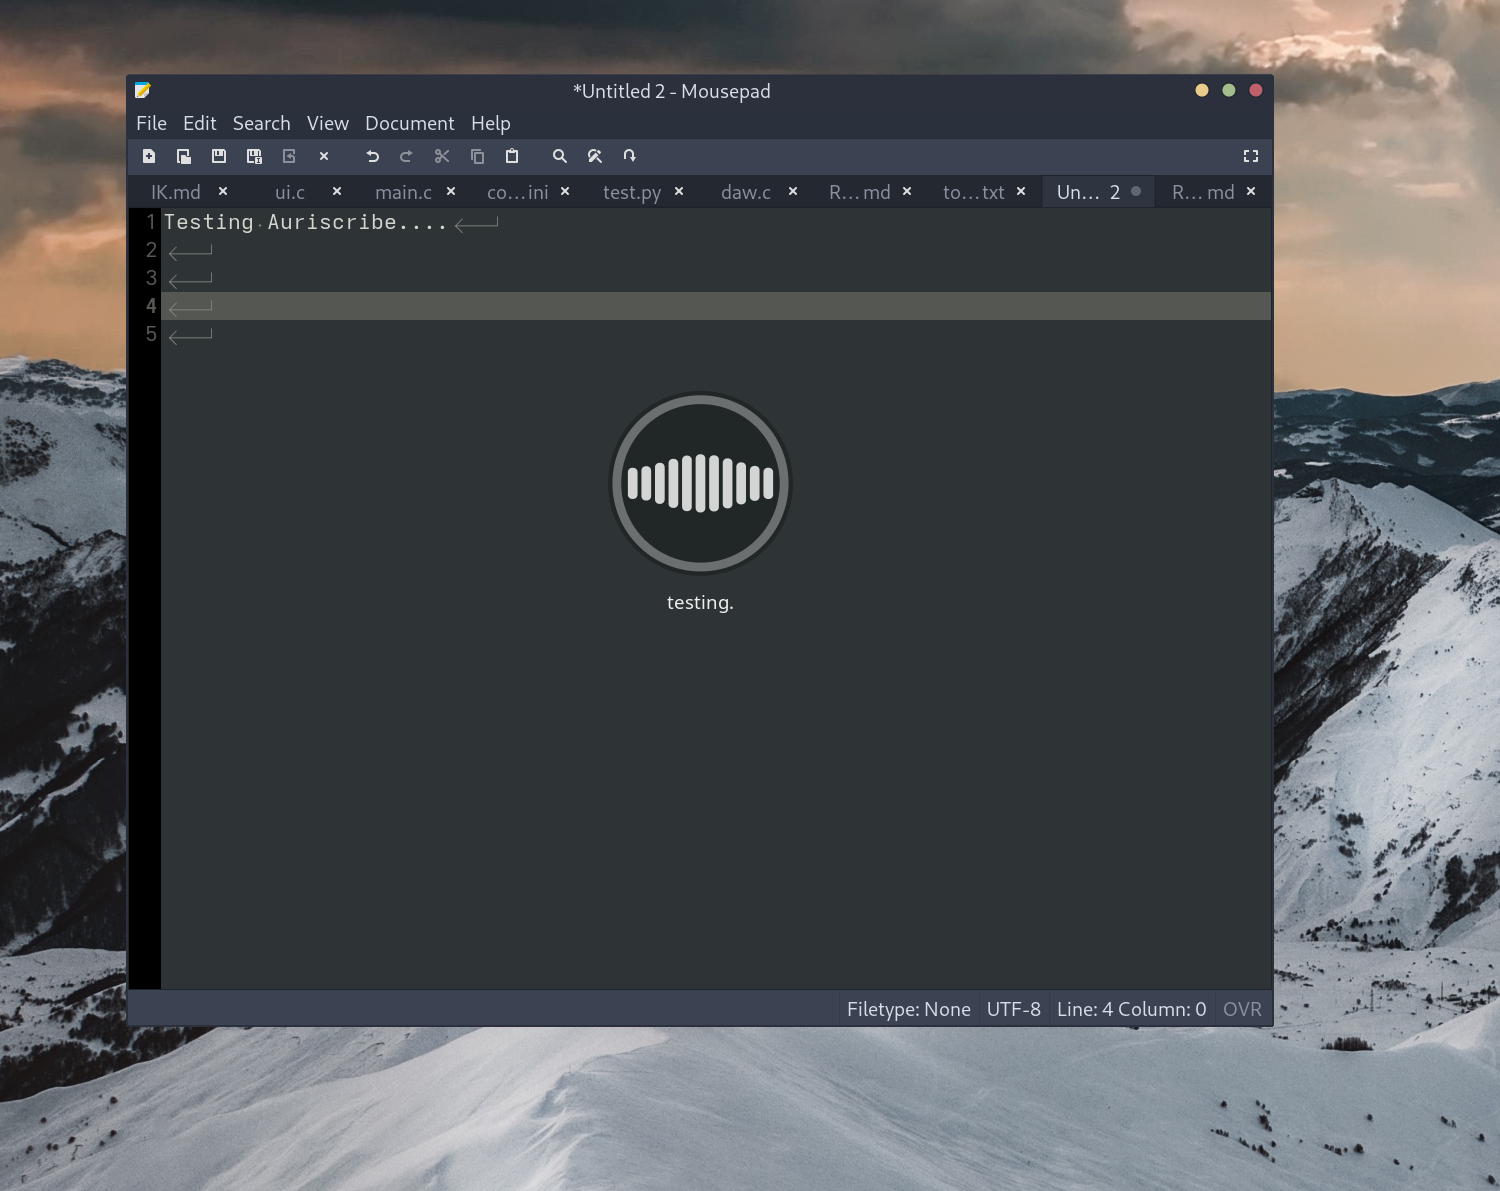
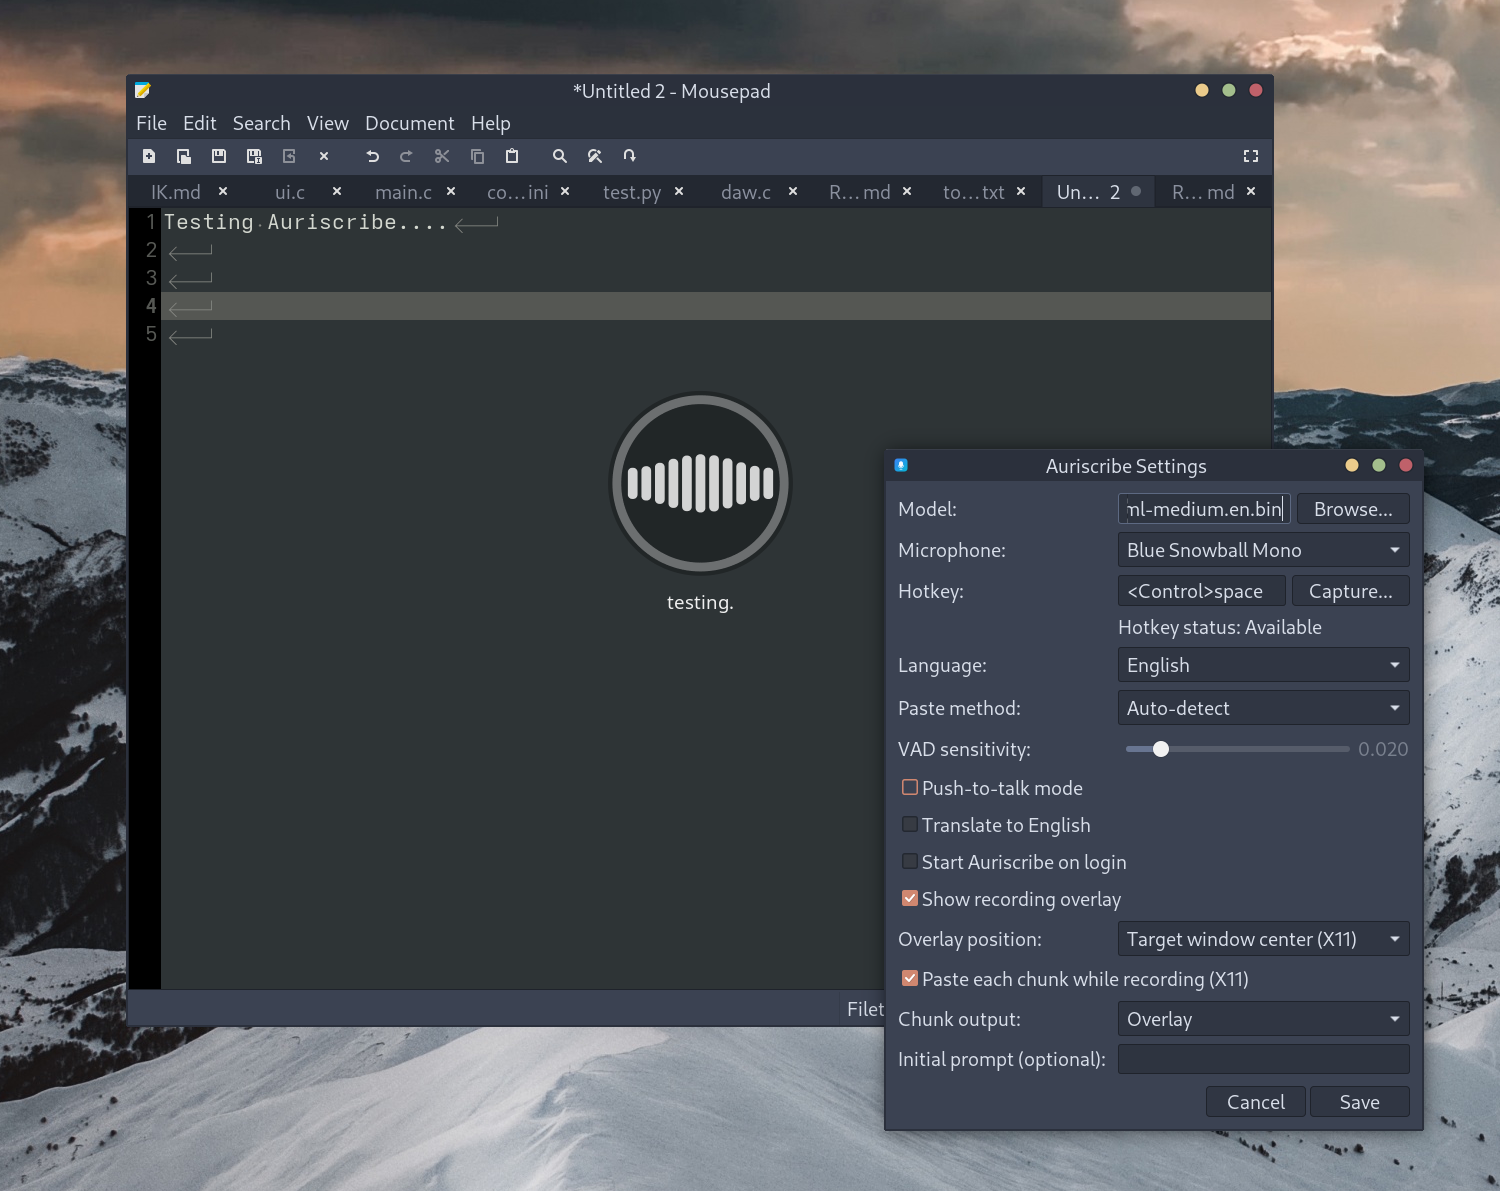
Add optional prompt

Changed region(s): [[0.5827, 0.3728, 0.9813, 0.9631]]

diff --git a/src/transcribe.c b/src/transcribe.c
@@ -5,6 +5,7 @@
 #include <stdio.h>
 #include <stdlib.h>
 #include <string.h>
+#include <fcntl.h>
 #include <sys/types.h>
 #include <sys/wait.h>
 #include <unistd.h>
@@ -119,6 +120,7 @@ struct Transcriber {
     pid_t worker_pid;
     int to_worker_fd;
     int from_worker_fd;
+    int err_fd;
     bool loaded;
     bool loading;
     bool load_failed;
@@ -128,8 +130,10 @@ static void transcriber_kill_worker(Transcriber *t) {
     if (!t) return;
     if (t->to_worker_fd != -1) close(t->to_worker_fd);
     if (t->from_worker_fd != -1) close(t->from_worker_fd);
+    if (t->err_fd != -1) close(t->err_fd);
     t->to_worker_fd = -1;
     t->from_worker_fd = -1;
+    t->err_fd = -1;
 
     if (t->worker_pid > 0) {
         // Try graceful.
@@ -153,9 +157,15 @@ static void transcriber_kill_worker(Transcriber *t) {
 static bool transcriber_start_worker(Transcriber *t) {
     int to_child[2] = {-1, -1};
     int from_child[2] = {-1, -1};
+    int err_child[2] = {-1, -1};
     if (pipe(to_child) != 0) return false;
     if (pipe(from_child) != 0) {
         close(to_child[0]); close(to_child[1]);
+        return false;
+    }
+    if (pipe(err_child) != 0) {
+        close(to_child[0]); close(to_child[1]);
+        close(from_child[0]); close(from_child[1]);
         return false;
     }
 
@@ -163,8 +173,10 @@ static bool transcriber_start_worker(Transcriber *t) {
     if (pid == 0) {
         dup2(to_child[0], STDIN_FILENO);
         dup2(from_child[1], STDOUT_FILENO);
+        dup2(err_child[1], STDERR_FILENO);
         close(to_child[0]); close(to_child[1]);
         close(from_child[0]); close(from_child[1]);
+        close(err_child[0]); close(err_child[1]);
 
         // Dev (run from build dir) + installed (in PATH).
         execl("./auriscribe-worker", "auriscribe-worker", NULL);
@@ -175,16 +187,61 @@ static bool transcriber_start_worker(Transcriber *t) {
     if (pid < 0) {
         close(to_child[0]); close(to_child[1]);
         close(from_child[0]); close(from_child[1]);
+        close(err_child[0]); close(err_child[1]);
         return false;
     }
 
     close(to_child[0]);
     close(from_child[1]);
+    close(err_child[1]);
 
     t->worker_pid = pid;
     t->to_worker_fd = to_child[1];
     t->from_worker_fd = from_child[0];
+    t->err_fd = err_child[0];
+    (void)fcntl(t->err_fd, F_SETFL, fcntl(t->err_fd, F_GETFL, 0) | O_NONBLOCK);
     return true;
+}
+
+static char *read_worker_stderr_nonblocking(int fd) {
+    if (fd < 0) return NULL;
+    char buf[4096];
+    size_t cap = 0;
+    size_t len = 0;
+    char *out = NULL;
+
+    for (;;) {
+        ssize_t r = read(fd, buf, sizeof(buf));
+        if (r == 0) break;
+        if (r < 0) {
+            if (errno == EINTR) continue;
+            break;
+        }
+        if ((size_t)r > 0) {
+            if (len + (size_t)r + 1 > cap) {
+                size_t ncap = cap ? cap * 2 : 8192;
+                while (ncap < len + (size_t)r + 1) ncap *= 2;
+                char *p = realloc(out, ncap);
+                if (!p) break;
+                out = p;
+                cap = ncap;
+            }
+            memcpy(out + len, buf, (size_t)r);
+            len += (size_t)r;
+        }
+    }
+
+    if (!out) return NULL;
+    out[len] = '\0';
+
+    // Keep the tail (most relevant error lines).
+    const size_t max = 2000;
+    if (len > max) {
+        size_t start = len - max;
+        memmove(out, out + start, max);
+        out[max] = '\0';
+    }
+    return out;
 }
 
 Transcriber *transcriber_new(void) {
@@ -193,6 +250,7 @@ Transcriber *transcriber_new(void) {
     t->worker_pid = 0;
     t->to_worker_fd = -1;
     t->from_worker_fd = -1;
+    t->err_fd = -1;
     t->loaded = false;
     t->loading = false;
     t->load_failed = false;
@@ -306,8 +364,10 @@ void transcriber_unload(Transcriber *t) {
     // Close pipes; reap child.
     if (t->to_worker_fd != -1) close(t->to_worker_fd);
     if (t->from_worker_fd != -1) close(t->from_worker_fd);
+    if (t->err_fd != -1) close(t->err_fd);
     t->to_worker_fd = -1;
     t->from_worker_fd = -1;
+    t->err_fd = -1;
     (void)waitpid(t->worker_pid, NULL, 0);
     t->worker_pid = 0;
     t->loaded = false;
@@ -336,11 +396,12 @@ EngineType transcriber_get_type(Transcriber *t) {
 
 char *transcriber_process(Transcriber *t, const float *samples, size_t count,
                           const char *language, bool translate) {
-    return transcriber_process_ex(t, samples, count, language, translate, NULL);
+    return transcriber_process_ex(t, samples, count, language, translate, NULL, NULL);
 }
 
 char *transcriber_process_ex(Transcriber *t, const float *samples, size_t count,
                              const char *language, bool translate,
+                             const char *initial_prompt,
                              char **error_out) {
     if (error_out) *error_out = NULL;
     if (!t) return NULL;
@@ -383,10 +444,14 @@ char *transcriber_process_ex(Transcriber *t, const float *samples, size_t count,
     const uint32_t n_samples = (uint32_t)count;
     const char *lang = (language && strcmp(language, "auto") != 0) ? language : "";
     const uint32_t lang_len = (uint32_t)strlen(lang);
+    const char *prompt = initial_prompt ? initial_prompt : "";
+    const uint32_t prompt_len = (uint32_t)strlen(prompt);
 
     if (!write_u32(t->to_worker_fd, n_samples) ||
         !write_u32(t->to_worker_fd, lang_len) ||
         (lang_len && !write_exact(t->to_worker_fd, lang, lang_len)) ||
+        !write_u32(t->to_worker_fd, prompt_len) ||
+        (prompt_len && !write_exact(t->to_worker_fd, prompt, prompt_len)) ||
         !write_u8(t->to_worker_fd, translate ? 1 : 0) ||
         !write_u32(t->to_worker_fd, (uint32_t)transcriber_threads()) ||
         (n_samples && !write_exact(t->to_worker_fd, samples, (size_t)n_samples * sizeof(float)))) {
@@ -408,7 +473,24 @@ char *transcriber_process_ex(Transcriber *t, const float *samples, size_t count,
     }
 
     if (error_out) {
-        *error_out = payload; // caller frees
+        char *stderr_tail = read_worker_stderr_nonblocking(t->err_fd);
+        if (stderr_tail && *stderr_tail) {
+            const char *p = payload ? payload : "Transcription failed";
+            const size_t n = strlen(p) + strlen("\n\n") + strlen(stderr_tail) + 1;
+            char *msg = malloc(n);
+            if (msg) {
+                snprintf(msg, n, "%s\n\n%s", p, stderr_tail);
+                free(payload);
+                free(stderr_tail);
+                *error_out = msg;
+            } else {
+                free(stderr_tail);
+                *error_out = payload;
+            }
+        } else {
+            free(stderr_tail);
+            *error_out = payload; // caller frees
+        }
         return NULL;
     }
 

diff --git a/src/worker.c b/src/worker.c
@@ -232,7 +232,8 @@ static char *trim_leading_space(char *s) {
 }
 
 static char *whisper_run(struct whisper_context *ctx, const float *samples, int n_samples,
-                         const char *language, bool translate, int n_threads) {
+                         const char *language, bool translate, int n_threads,
+                         const char *initial_prompt) {
     struct whisper_full_params params = whisper_full_default_params(WHISPER_SAMPLING_GREEDY);
     params.n_threads = n_threads;
     params.print_progress = false;
@@ -242,6 +243,9 @@ static char *whisper_run(struct whisper_context *ctx, const float *samples, int 
     params.translate = translate;
     params.single_segment = true;
     params.no_context = true;
+    if (initial_prompt && *initial_prompt) {
+        params.initial_prompt = initial_prompt;
+    }
 
     if (language && *language) {
         params.language = language;
@@ -356,6 +360,7 @@ int main(int argc, char **argv) {
 
             uint32_t n_samples_u32 = 0;
             uint32_t lang_len = 0;
+            uint32_t prompt_len = 0;
             uint8_t translate = 0;
             uint32_t n_threads = 0;
 
@@ -366,8 +371,21 @@ int main(int argc, char **argv) {
                 (void)write_msg(out_fd, 'E', "Out of memory");
                 continue;
             }
+
+            if (!read_u32(in_fd, &prompt_len)) {
+                free(lang);
+                break;
+            }
+            char *prompt = read_bytes_str(in_fd, prompt_len);
+            if (!prompt && prompt_len != 0) {
+                free(lang);
+                (void)write_msg(out_fd, 'E', "Out of memory");
+                continue;
+            }
+
             if (!read_u8(in_fd, &translate) || !read_u32(in_fd, &n_threads)) {
                 free(lang);
+                free(prompt);
                 break;
             }
 
@@ -377,19 +395,22 @@ int main(int argc, char **argv) {
                 samples = malloc(n_samples * sizeof(float));
                 if (!samples) {
                     free(lang);
+                    free(prompt);
                     (void)write_msg(out_fd, 'E', "Out of memory");
                     continue;
                 }
                 if (!read_exact(in_fd, samples, n_samples * sizeof(float))) {
                     free(samples);
                     free(lang);
+                    free(prompt);
                     break;
                 }
             }
 
-            char *text = whisper_run(ctx, samples, (int)n_samples_u32, lang, translate != 0, (int)n_threads);
+            char *text = whisper_run(ctx, samples, (int)n_samples_u32, lang, translate != 0, (int)n_threads, prompt);
             free(samples);
             free(lang);
+            free(prompt);
 
             if (!text) {
                 (void)write_msg(out_fd, 'E', "Transcription failed");

diff --git a/src/ui_settings.c b/src/ui_settings.c
@@ -24,6 +24,7 @@ typedef struct {
     GtkWidget *overlay_pos_combo;
     GtkWidget *paste_each_chunk_check;
     GtkWidget *chunk_output_combo;
+    GtkWidget *initial_prompt_entry;
     GtkWidget *model_path_entry;
     bool capturing_hotkey;
 } SettingsDialog;
@@ -207,6 +208,10 @@ static void settings_apply(SettingsDialog *sd) {
     const char *out = gtk_combo_box_get_active_id(GTK_COMBO_BOX(sd->chunk_output_combo));
     sd->cfg->chunk_output = strdup(out ? out : "target");
 
+    free(sd->cfg->initial_prompt);
+    const char *prompt = gtk_entry_get_text(GTK_ENTRY(sd->initial_prompt_entry));
+    sd->cfg->initial_prompt = (prompt && *prompt) ? strdup(prompt) : NULL;
+
     // Save model path
     free(sd->cfg->model_path);
     const char *path = gtk_entry_get_text(GTK_ENTRY(sd->model_path_entry));
@@ -386,6 +391,13 @@ void settings_dialog_show(GtkWindow *parent, Config *cfg) {
     gtk_combo_box_text_append(GTK_COMBO_BOX_TEXT(sd->chunk_output_combo), "both", "Both");
     gtk_combo_box_set_active_id(GTK_COMBO_BOX(sd->chunk_output_combo), cfg->chunk_output ? cfg->chunk_output : "target");
     gtk_grid_attach(GTK_GRID(grid), sd->chunk_output_combo, 1, row++, 1, 1);
+
+    gtk_grid_attach(GTK_GRID(grid), create_label("Initial prompt (optional):"), 0, row, 1, 1);
+    sd->initial_prompt_entry = gtk_entry_new();
+    gtk_entry_set_max_length(GTK_ENTRY(sd->initial_prompt_entry), 244);
+    gtk_entry_set_text(GTK_ENTRY(sd->initial_prompt_entry), cfg->initial_prompt ? cfg->initial_prompt : "");
+    gtk_widget_set_hexpand(sd->initial_prompt_entry, TRUE);
+    gtk_grid_attach(GTK_GRID(grid), sd->initial_prompt_entry, 1, row++, 1, 1);
     
     g_signal_connect(sd->hotkey_entry, "changed", G_CALLBACK(on_hotkey_entry_changed), sd);
     g_signal_connect(sd->dialog, "key-press-event", G_CALLBACK(on_dialog_key_press), sd);

diff --git a/src/config.c b/src/config.c
@@ -83,6 +83,7 @@ Config *config_new_default(void) {
     cfg->overlay_position = strdup("screen");
     cfg->paste_each_chunk = false;
     cfg->chunk_output = strdup("target");
+    cfg->initial_prompt = NULL;
     return cfg;
 }
 
@@ -96,6 +97,7 @@ void config_free(Config *cfg) {
     free(cfg->microphone);
     free(cfg->overlay_position);
     free(cfg->chunk_output);
+    free(cfg->initial_prompt);
     free(cfg);
 }
 
@@ -151,6 +153,8 @@ Config *config_load(void) {
         cfg->paste_each_chunk = json_object_get_boolean(val);
     if (json_object_object_get_ex(root, "chunk_output", &val))
         cfg->chunk_output = strdup_safe(json_object_get_string(val));
+    if (json_object_object_get_ex(root, "initial_prompt", &val))
+        cfg->initial_prompt = strdup_safe(json_object_get_string(val));
 
     json_object_put(root);
 
@@ -185,6 +189,9 @@ void config_save(const Config *cfg) {
     json_object_object_add(root, "overlay_position", json_object_new_string(cfg->overlay_position ? cfg->overlay_position : "screen"));
     json_object_object_add(root, "paste_each_chunk", json_object_new_boolean(cfg->paste_each_chunk));
     json_object_object_add(root, "chunk_output", json_object_new_string(cfg->chunk_output ? cfg->chunk_output : "target"));
+    if (cfg->initial_prompt && *cfg->initial_prompt) {
+        json_object_object_add(root, "initial_prompt", json_object_new_string(cfg->initial_prompt));
+    }
 
     char path[600];
     snprintf(path, sizeof(path), "%s/settings.json", config_get_dir());

diff --git a/src/app.c b/src/app.c
@@ -584,8 +584,13 @@ static gpointer worker_thread_main(gpointer data) {
             const gint64 t0_us = g_get_monotonic_time();
             dbg_chunk(a, "worker: processing chunk samples=%zu secs=%.2f", chunk->count, (double)chunk->count / (double)SAMPLE_RATE);
             char *err = NULL;
+            char *prompt_copy = NULL;
+            if (a->config && a->config->initial_prompt && *a->config->initial_prompt) {
+                prompt_copy = strdup(a->config->initial_prompt);
+            }
             char *text = transcriber_process_ex(a->transcriber, chunk->samples, chunk->count,
                                                 a->config->language, a->config->translate_to_english,
+                                                prompt_copy,
                                                 &err);
             const gint64 t1_us = g_get_monotonic_time();
             dbg_chunk(a, "worker: transcribe done in %.2fs (text_len=%zu)",
@@ -615,6 +620,7 @@ static gpointer worker_thread_main(gpointer data) {
                 }
             }
             free(err);
+            free(prompt_copy);
             if (text && *text) {
                 g_mutex_lock(&a->accum_mutex);
                 if (a->accum_text->len > 0) g_string_append_c(a->accum_text, ' ');

diff --git a/src/transcribe.h b/src/transcribe.h
@@ -27,6 +27,7 @@ char *transcriber_process(Transcriber *t, const float *samples, size_t count,
                           const char *language, bool translate);
 char *transcriber_process_ex(Transcriber *t, const float *samples, size_t count,
                              const char *language, bool translate,
+                             const char *initial_prompt,
                              char **error_out);
 
 #endif

diff --git a/src/config.h b/src/config.h
@@ -18,6 +18,7 @@ typedef struct {
     char *overlay_position; // "screen" or "target"
     bool paste_each_chunk;  // X11 only; paste on VAD pause
     char *chunk_output;     // "target", "overlay", or "both"
+    char *initial_prompt;   // optional, max 244 chars (whisper.cpp limit)
 } Config;
 
 // Get XDG paths

diff --git a/README.md b/README.md
@@ -95,8 +95,16 @@ Autostart: enable **Start Auriscribe on login** in Settings.
 
 Legacy env vars (`XFCE_WHISPER_*`) are still accepted for backwards compatibility.
 
+## Whisper initial prompt
+
+In **Settings...** you can optionally set an **Initial prompt** (max 244 chars). This is passed to Whisper as an “initial prompt” to bias decoding (useful for names/jargon and consistent formatting).
+
+Examples:
+- Vocabulary / proper nouns: `Auriscribe, whisper.cpp, Vulkan, GGML, PipeWire, PulseAudio`
+- Formatting: `Use proper punctuation. Use sentence case. Prefer numerals for numbers.`
+- Domain bias: `Meeting notes. Action items. Technical discussion about Linux and GPUs.`
+
 ## Other Useful Projects
 
 - Try my AI panel plugin for XFCE, [XFCE Ask](https://github.com/rabfulton/xfce-ask)
 - For many more features try out [ChatGTK](https://github.com/rabfulton/ChatGTK)
-
